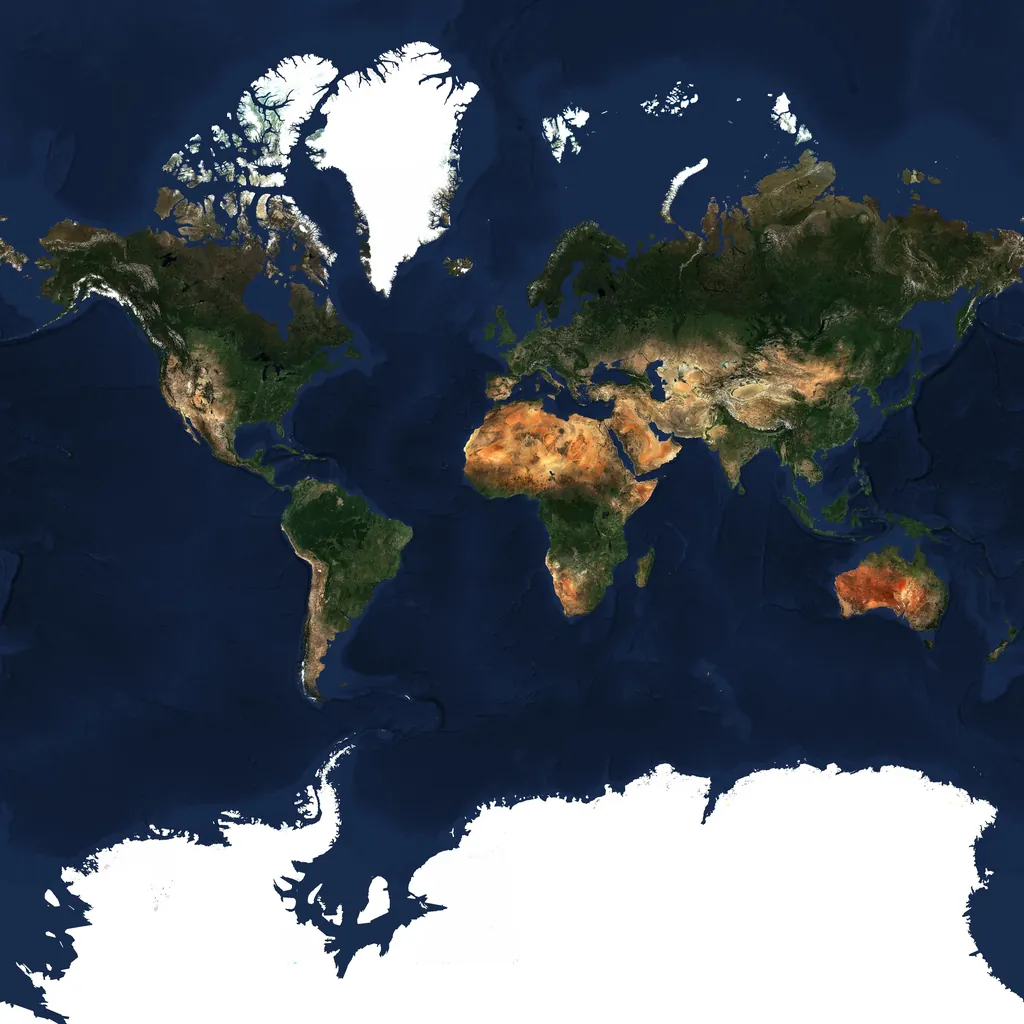
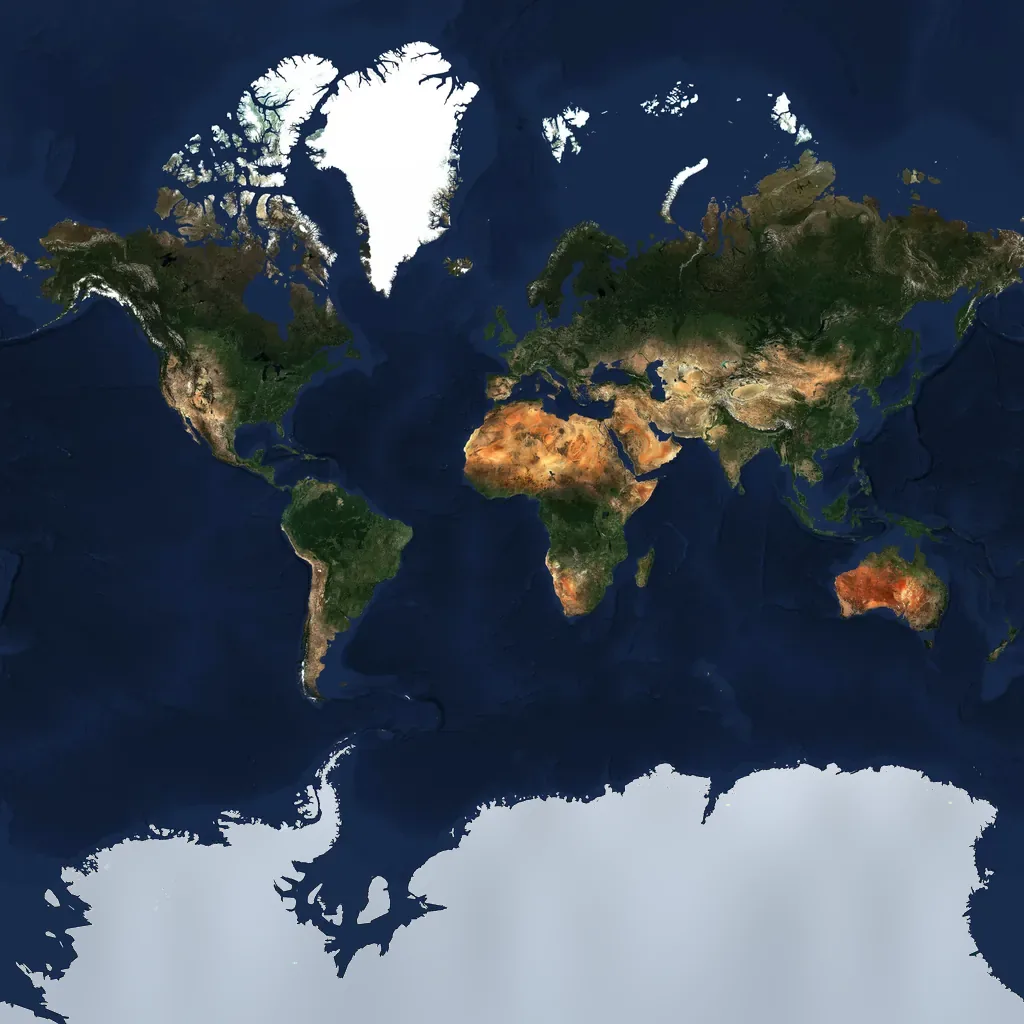
196 Plates: pins on G-NAF address points, intro and sweep fixes
- address_points.py: every pin on its NSW address point (G-NAF via NSW Spatial Services). Nominatim answered unknown house numbers with the middle of the street: 26 of 63 pins were 100 m - 1.5 km off (Rosie Campbell's 1.1 km). plates.py now uses it; coords_exact.json adds four venues it cannot place.
- intro: Antarctica toned in the globe textures and the EOX polar tiles (tone_antarctica.py), pole cap filled; ripple starts as Sydney faces the camera, so no far-side arcs; failed tiles transparent, not half-blue; single-density satellite tiles on high-DPI screens (~45% less stalling on phone).
- phone landing: padding from 62vh, matching the landed map, not innerHeight.
- world map: small-country hit areas under the countries (Italy no longer opens Vatican City); Kosovo's dot on its own shape, not over Lebanon.
- ticks on countries no longer listed are set aside (crashed the world view); panel width fitted to the window so the map keeps 320px.
- Uruguay: dead Facebook website link dropped.

Changed region(s): [[0.0, 0.75, 1.0, 1.0]]

diff --git a/196-plates/intro.js b/196-plates/intro.js
@@ -27,15 +27,38 @@
     // MapLibre 5.24's image queue throws on a request it has already cancelled; the next request starts the queue again
     addEventListener("unhandledrejection", e => { if (/reading 'signal'/.test(String(e.reason && e.reason.message))) e.preventDefault(); });
     // a tile that fails or is cancelled comes back empty: MapLibre mishandles a rejection after it has dropped the request
[1 lines of base64/hex data omitted]
+    // (fully transparent: the old pixel was half-opaque blue, and tinted every failed tile)
[1 lines of base64/hex data omitted]
     const token = window.__satToken = {};
+    const tileLat = (y, z) => Math.atan(Math.sinh(Math.PI * (1 - 2 * y / 2 ** z))) / D2R;
     maplibregl.addProtocol("sat", async (req, abort) => {
-      const [z, x, y] = req.url.slice(6).split("/");
+      const [z, x, y] = req.url.slice(6).split("/").map(Number);
       try {
         const r = await fetch(satUrl(z, x, y), { signal: abort && abort.signal });
-        return { data: r.ok ? await r.arrayBuffer() : BLANK.slice(0) };
+        if (!r.ok) return { data: BLANK.slice(0) };
+        // EOX has no imagery of Antarctica, only flat white: tone it the way the globe texture is toned
+        if (tileLat(y + 1, z) < -55 && typeof OffscreenCanvas === "function") return { data: await iceTile(await r.blob(), x, y, z) };
+        return { data: await r.arrayBuffer() };
       } catch (e) { return { data: BLANK.slice(0) }; }
     });
+    // the same formula as tone_antarctica.py, so the tiles meet the texture without a seam
+    const ICE = lat => { const t = Math.min(1, Math.max(0, (-lat - 60) / 25)) ** .8; return [214 - 36 * t, 222 - 32 * t, 231 - 27 * t]; };
+    const iceNoise = (lon, lat) => 1 + .05 * (.5 * Math.sin(.13 * lon + .9 * Math.sin(.05 * lon)) * Math.cos(.31 * lat) + .5 * Math.sin(.047 * lon - .21 * lat + 1.7));
+    const iceTile = async (blob, x, y, z) => {
+      const bm = await createImageBitmap(blob), n = bm.width, cv = new OffscreenCanvas(n, n), cx = cv.getContext("2d");
+      cx.drawImage(bm, 0, 0); const im = cx.getImageData(0, 0, n, n), d = im.data, Z = 2 ** z;
+      for (let j = 0; j < n; j++) {
+        const lat = tileLat(y + (j + .5) / n, z), band = Math.min(1, Math.max(0, (-lat - 55) / 5)); if (!band) continue;
+        const c = ICE(lat);
+        for (let i = 0; i < n; i++) {
+          const k = 4 * (j * n + i), mn = Math.min(d[k], d[k + 1], d[k + 2]), w = band * Math.min(1, Math.max(0, (mn - 200) / 45)); if (!w) continue;
+          const f = iceNoise(((x + (i + .5) / n) / Z) * 360 - 180, lat);
+          d[k] += (c[0] * f - d[k]) * w; d[k + 1] += (c[1] * f - d[k + 1]) * w; d[k + 2] += (c[2] * f - d[k + 2]) * w;
+        }
+      }
+      cx.putImageData(im, 0, 0);
+      return (await cv.convertToBlob({ type: "image/jpeg", quality: .9 })).arrayBuffer();
+    };
     // the protocol outlives the intro by a few seconds, for tiles still in flight; a newer intro's protocol is left alone
     const dropProtocol = () => setTimeout(() => { if (window.__satToken === token) try { maplibregl.removeProtocol("sat"); } catch (e) {} }, 4000);
 
@@ -82,13 +105,14 @@
     // ---- the intro's layers, under the app's pins; everything that animates reads a global-state value ----
     const gs = k => ["global-state", k], clamp01 = e => ["min", 1, ["max", 0, e]];
     const setG = (k, v) => { v = Math.round(v * 1000) / 1000; if (!map.style) return; if (setG[k] !== v) { setG[k] = v; map.setGlobalStateProperty(k, v); } };
-    // the tile size that draws one texel per screen pixel; the dive asks one level finer, so while the next level loads
-    // the tiles standing in for it are still at screen density
-    const tileNeed = (devicePixelRatio || 1) >= 1.5 ? 128 : 256, tile = tileNeed / 2;
+    // the tile size that draws one texel per screen pixel; on a 1x screen the dive asks one level finer, so while the next
+    // level loads the tiles standing in for it are still at screen density. A high-density screen asks at screen density:
+    // one level finer there is 16x the tiles of 256px slots, and cost a phone ~45% more stalling (4+4 filmed runs, 10/11/2026)
+    const hiDpi = (devicePixelRatio || 1) >= 1.5, tileNeed = hiDpi ? 128 : 256, tile = hiDpi ? tileNeed : tileNeed / 2;
     const FADE_OUT = [Z0 + 1.6, Z0 + 3.2];
     let osmBefore = null;
     const below = () => map.getLayer("pins") ? "pins" : undefined;
-    const OWN = { layers: ["day", "eox", "night", "rings"], sources: ["day", "eox", "night", "rings"] };
+    const OWN = { layers: ["pole", "day", "eox", "night", "rings"], sources: ["day", "eox", "night", "rings"] };
     const setup = () => {
       Object.entries({ nk: 1, rr: -10, ra: 0, hold: 1 }).forEach(([k, v]) => setG(k, v));
       map.setLayerZoomRange(o.osm, 8, 24); map.setPaintProperty(o.osm, "raster-fade-duration", 0);
@@ -101,6 +125,9 @@
       map.setLayoutProperty(o.osm, "visibility", "none");
       { const ls = map.getStyle().layers, i = ls.findIndex(l => l.id === o.osm); osmBefore = ls[i + 1] && ls[i + 1].id; }
       map.setPaintProperty(o.osm, "raster-opacity", ["-", 1, gs("hold")]);
+      // the globe's surface under everything: it fills the caps past 85 degrees that no image reaches (a black dot at the
+      // south pole), in the toned ice colour of the texture's last row (tone_antarctica.py)
+      map.addLayer({ id: "pole", type: "background", maxzoom: 8, paint: { "background-color": "rgb(177,189,203)" } }, map.getStyle().layers[0].id);
       map.addLayer({ id: "day", type: "raster", source: "day", maxzoom: 10, paint: { "raster-opacity": ["interpolate", ["linear"], ["zoom"], 7, 1, 10, 0], "raster-fade-duration": 0 } }, below());
       // the satellite holds until the basemap under it has loaded (hold), then crossfades; it never leaves a blank
       map.addLayer({ id: "eox", type: "raster", source: "eox", maxzoom: 14, minzoom: Z0 + .6, paint: { "raster-opacity": 1, "raster-fade-duration": 0 } }, below());
@@ -138,7 +165,7 @@
     const lin = (t, a, b) => Math.min(1, Math.max(0, (t - a) / (b - a)));
     const sm = x => x * x * (3 - 2 * x);
     const ripple = (a, b) => t => { const k = lin(t, a, b); return k >= 1 ? 1.1 : 1 - (1 - k) ** 1.6; };
-    const TT = 2.7, TZ = 2.0, TE = 5.3, RING = .55, CF = .7, PLATE_T = 1.0;
+    const TT = 2.7, TZ = 2.0, TE = 5.3, RING = .55, CF = .7, PLATE_T = 1.0, RIP0 = 1.7;
     let GO = null, start = null, total = TE, contAt = null, land = null, dead = false;
 
     // ---- the dive's satellite: one pre-built image per half zoom level, cut to the view along the fixed path to the city,
@@ -280,7 +307,9 @@
         else {
           const c = contAt(Math.min(t, total));
           map.jumpTo(c);
-          const r = ripple(.15, 2.0)(t); setG("rr", r * 180); setG("ra", RING * (1 - lin(r, .85, 1.05)));
+          // the ripple starts as the city turns to face the camera (from about 1.8 s): run any earlier and only its far
+          // side is ever seen, as stray arcs across the other hemisphere
+          const r = ripple(RIP0, RIP0 + 1.7)(t); setG("rr", r * 90); setG("ra", RING * (1 - lin(r, .85, 1.05)));
         }
       }
       if ((reduce || t >= total) && baseIn !== null && t >= baseIn + CF) {

diff --git a/196-plates/worldmap.js b/196-plates/worldmap.js
@@ -112,18 +112,23 @@
             area += Math.abs(a / 2); if (a && (!best || Math.abs(a) > best.a)) best = { a: Math.abs(a), xy: [cx / (3 * a), cy / (3 * a)] }; }
           return ringD(r); }).join("")).join("");
         const st = f.id === "010" ? "none" : state(f.a3), ix = items.length;
-        items.push({ a3: f.a3, name: nameOf(f.a3, f.name), xy: best ? best.xy : [0, 0], d, st, ant: f.id === "010" });
+        f.xy = best ? best.xy : [0, 0];
+        items.push({ a3: f.a3, name: nameOf(f.a3, f.name), xy: f.xy, d, st, ant: f.id === "010" });
         out.push(`<path d="${d}" fill="${PAL[st]}" stroke="${PAL.coast}" stroke-width="${PAL.coastW}" stroke-linejoin="round"${f.id === "010" ? "" : ` data-k="${ix}" data-cc="${f.a3}"${pickable(f.a3) ? " data-pick" : ""}`}/>`);
         f.area = area;
       });
       out.push(`<path d="${P.borders.map(l => "M" + l.map(([x, y]) => pj(x, y).map(v => v.toFixed(1)).join(",")).join("L")).join("")}" fill="none" stroke="${PAL.border}" stroke-width="${PAL.borderW}" stroke-linejoin="round"/>`);
-      // points for the countries too small to see: drawn when they are eaten or in the city, a hit area either way
+      // points for the countries too small to see: drawn when they are eaten or in the city, a hit area either way. The hit
+      // areas sit UNDER the countries: over sea they catch the tap, over land the country drawn there wins (they sat on
+      // top and turned a click on Italy into Vatican City, and on a phone Germany into Czechia)
       const dots = Object.entries(SMALL).map(([a3, [x, y]]) => ({ a3, xy: pj(x < CUT ? x + 360 : x, y), name: nameOf(a3) }))
-        .concat(P.feats.filter(f => f.area < 30 && f.id !== "010").map(f => ({ a3: f.a3, xy: items.find(i => i.a3 === f.a3).xy, name: nameOf(f.a3, f.name), tiny: true })));
+        .concat(P.feats.filter(f => f.area < 30 && f.id !== "010").map(f => ({ a3: f.a3, xy: f.xy, name: nameOf(f.a3, f.name), tiny: true })));
+      const hits = [];
       dots.forEach(dt => { const st = state(dt.a3), ix = items.length;
         items.push({ ...dt, st, dot: true });
-        const vis = st !== "none" && (!dt.tiny || st === "eaten") ? `<circle cx="${dt.xy[0].toFixed(1)}" cy="${dt.xy[1].toFixed(1)}" r="3.6" fill="${PAL[st]}" stroke="#fff" stroke-width="1.2"/>` : "";
-        out.push(`${vis}<circle cx="${dt.xy[0].toFixed(1)}" cy="${dt.xy[1].toFixed(1)}" r="8" fill="transparent" data-k="${ix}"${pickable(dt.a3) ? " data-pick" : ""}/>`); });
+        if (st !== "none" && (!dt.tiny || st === "eaten")) out.push(`<circle cx="${dt.xy[0].toFixed(1)}" cy="${dt.xy[1].toFixed(1)}" r="3.6" fill="${PAL[st]}" stroke="#fff" stroke-width="1.2" data-k="${ix}"${pickable(dt.a3) ? " data-pick" : ""}/>`);
+        hits.push(`<circle cx="${dt.xy[0].toFixed(1)}" cy="${dt.xy[1].toFixed(1)}" r="8" fill="transparent" data-k="${ix}"${pickable(dt.a3) ? " data-pick" : ""}/>`); });
+      out.splice(1, 0, ...hits);
       out.push(`<g class="wm-hl" pointer-events="none"></g>`);
       svg.innerHTML = out.join("");
 

diff --git a/196-plates/app.js b/196-plates/app.js
@@ -96,7 +96,7 @@
   const setPanel = w => { w = Math.round(Math.min(Math.max(w, 240), Math.min(760, innerWidth - 320)));
     document.documentElement.style.setProperty("--panel", w + "px"); map.resize(); return w; };
   const saved = store.get("196plates.panel", null);
-  if (saved && !small) setPanel(saved);
+  if (saved) document.documentElement.style.setProperty("--panel", saved + "px"); // the CSS fits it to the window, then and on resize
   grip.addEventListener("pointerdown", e => {
     e.preventDefault(); grip.setPointerCapture(e.pointerId); grip.classList.add("drag");
     const move = ev => setPanel(ev.clientX);
@@ -111,7 +111,8 @@
 
   // ---- places you have eaten at, kept on this device (cc -> date) ----
   const KEY = "196plates.eaten." + CITY;
-  let eaten = store.get(KEY, {});
+  // a tick on a country this city no longer lists is set aside: opening it from the world map crashed
+  let eaten = Object.fromEntries(Object.entries(store.get(KEY, {}) || {}).filter(([cc]) => D.pins.some(p => p.cc === cc)));
   const isEaten = cc => !!eaten[cc];
   const eatenCount = document.getElementById("been");
   const paint = () => {
@@ -413,7 +414,11 @@
   // where the map will sit once the list is back: the intro lands the city in that part of the full-bleed map
   const landCam = () => {
     const w = mapEl.clientWidth, h = mapEl.clientHeight;
-    const pad = phone() ? { top: 0, left: 0, right: 0, bottom: Math.max(0, h - Math.round(innerHeight * .62)) }
+    // the landed map is 62vh tall; on a phone vh is the viewport without the address bar, not innerHeight, and the
+    // difference showed as a jump at the hand-off
+    const vh62 = (() => { const d = document.createElement("div"); d.style.cssText = "position:absolute;visibility:hidden;height:62vh";
+      document.body.appendChild(d); const v = d.getBoundingClientRect().height; d.remove(); return v; })();
+    const pad = phone() ? { top: 0, left: 0, right: 0, bottom: Math.max(0, h - Math.round(vh62)) }
       : { top: 0, bottom: 0, right: 0, left: Math.round(document.querySelector(".panel").getBoundingClientRect().right) };
     return fitCamera(w, h, pad);
   };

diff --git a/196-plates/style.css b/196-plates/style.css
@@ -10,6 +10,8 @@
   --hover: #f4f2ec;
   --green: #2f6f4f;
   --panel: 520px;
+  /* the map keeps at least 320px at any window width: a stored or default width alone squeezed it to 200 */
+  --panelw: clamp(240px, var(--panel), max(240px, 100vw - 320px));
   --top: 64px;
   --tiles: none;
   --sans: -apple-system, BlinkMacSystemFont, "Segoe UI", Roboto, Helvetica, Arial, sans-serif;
@@ -48,7 +50,7 @@ body { background: var(--bg); color: var(--ink); font: 15px/1.5 var(--sans); -we
 
 /* ---- layout ---- */
 .app { display: flex; height: calc(100% - var(--top)); }
-.panel { flex: 0 0 var(--panel); overflow-y: auto; padding: 24px 24px 32px; border-right: 1px solid var(--rule); }
+.panel { flex: 0 0 var(--panelw); overflow-y: auto; padding: 24px 24px 32px; border-right: 1px solid var(--rule); }
 .mapwrap { position: relative; flex: 1; min-width: 0; }
 #map { position: absolute; inset: 0; background: var(--paper); }
 .leaflet-tile-pane { filter: var(--tiles); }
@@ -137,7 +139,7 @@ body.searching .mapwrap { position: fixed; inset: var(--top) 0 0 0; height: auto
 body.searching #map { background: transparent; }
 html:has(body.searching), body.searching { overflow: hidden; }
 /* the dive's last second: the panel slides over the map's padded edge as the camera makes room for it, so landing resizes nothing visible */
-body.searching.diving .panel { visibility: visible; position: fixed; z-index: 5; pointer-events: none; left: 0; top: var(--top); bottom: 0; width: var(--panel);
+body.searching.diving .panel { visibility: visible; position: fixed; z-index: 5; pointer-events: none; left: 0; top: var(--top); bottom: 0; width: var(--panelw);
   background: var(--bg); will-change: transform; transform: translateX(calc((var(--k, 0) - 1) * 100%)); }
 @media (max-width: 760px) {
   body.searching.diving .panel { width: auto; right: 0; top: calc(var(--top) + 62vh); overflow: hidden; transform: translateY(calc((1 - var(--k, 0)) * 100%)); }

diff --git a/196-plates/app-leaflet.js b/196-plates/app-leaflet.js
@@ -63,7 +63,7 @@
   const setPanel = w => { w = Math.round(Math.min(Math.max(w, 240), Math.min(760, innerWidth - 320)));
     document.documentElement.style.setProperty("--panel", w + "px"); map.invalidateSize(); return w; };
   const saved = store.get("196plates.panel", null);
-  if (saved && !small) setPanel(saved);
+  if (saved) document.documentElement.style.setProperty("--panel", saved + "px"); // the CSS fits it to the window, then and on resize
   grip.addEventListener("pointerdown", e => {
     e.preventDefault(); grip.setPointerCapture(e.pointerId); grip.classList.add("drag");
     const move = ev => setPanel(ev.clientX);
@@ -78,7 +78,8 @@
 
   // ---- places you have eaten at, kept on this device (cc -> date) ----
   const KEY = "196plates.eaten." + CITY;
-  let eaten = store.get(KEY, {});
+  // a tick on a country this city no longer lists is set aside: opening it from the world map crashed
+  let eaten = Object.fromEntries(Object.entries(store.get(KEY, {}) || {}).filter(([cc]) => D.pins.some(p => p.cc === cc)));
   const isEaten = cc => !!eaten[cc];
   const eatenCount = document.getElementById("been");
   const paint = () => {
